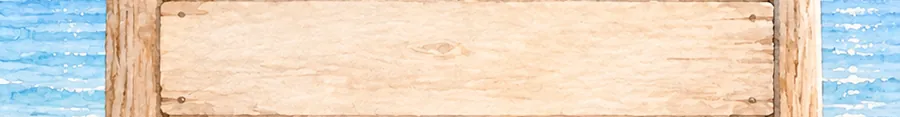
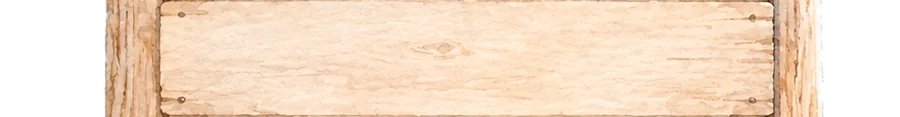
해변 게시판 배경 교체: 넓힌 해변 그림을 배경으로, 게시판은 배경 위에 서 있도록
Claude-Session: https://claude.ai/code/session_01SdUdZHhPjDED97ksZnExm7

Changed region(s): [[0.9022, 0.0, 1.0, 1.0], [0.0, 0.0, 0.1244, 1.0]]

diff --git a/index.html b/index.html
@@ -92,13 +92,10 @@ textarea,input,select{font:inherit;color:inherit}
   padding:7px 12px;border-radius:14px}
 
 /* ---------- board ---------- */
-#board{background:url(img/sea.webp) center/cover fixed;padding-bottom:0}
-#board{position:relative}
-#board::before{content:"";position:fixed;inset:0;background:inherit;filter:blur(3px) brightness(1.05) saturate(.85);transform:scale(1.03);z-index:0}
-.board{position:relative;z-index:1;width:100%;max-width:520px;margin:0 auto;
-  -webkit-mask-image:linear-gradient(90deg,transparent 0,#000 3%,#000 97%,transparent 100%);
-  mask-image:linear-gradient(90deg,transparent 0,#000 3%,#000 97%,transparent 100%);
-  background:url(img/board_mid.webp) 0 0/100% auto repeat-y}
+#board{position:relative;padding-bottom:4vh}
+#board::before{content:"";position:fixed;inset:0;background:#cfe3f3 url(img/beach.webp) center bottom/cover no-repeat;z-index:0}
+.board{position:relative;z-index:1;width:100%;max-width:560px;margin:0 auto}
+.mid-wrap{display:flow-root;background:url(img/board_mid.webp) 0 0/100% auto repeat-y}
 .board-top,.board-bot{display:block;width:100%;height:auto}
 .board-top-wrap{position:relative}
 .board-head{position:absolute;left:19%;right:15.5%;top:46%;text-align:center}
@@ -124,7 +121,7 @@ textarea,input,select{font:inherit;color:inherit}
 .badge{font-size:11px;padding:1px 7px;border-radius:9px;color:#fff;white-space:nowrap}
 .b-done{background:#4b8a5f}.b-plan{background:#2f6f9f}.b-no{background:#9a7b5c}.b-wait{background:#b08a3a}
 .board-foot{position:relative}
-.foot-note{position:absolute;left:14%;right:14%;bottom:5%;text-align:center;font-size:12px;line-height:1.55;color:#5b4528;background:rgba(255,250,238,.82);border-radius:10px;padding:8px 10px}
+.foot-note{position:absolute;left:17%;right:17%;top:44%;text-align:center;font-size:12px;line-height:1.55;color:#5b4528;background:rgba(255,250,238,.82);border-radius:10px;padding:8px 10px}
 
 /* ---------- find ---------- */
 #find{background:url(img/sea.webp) center/cover fixed;padding:80px 16px 40px}
@@ -226,7 +223,7 @@ textarea,input,select{font:inherit;color:inherit}
         <div class="stats" id="stats"></div>
       </div>
     </div>
-    <div class="notes" id="notes"><div class="loading">불러오는 중…</div></div>
+    <div class="mid-wrap"><div class="notes" id="notes"><div class="loading">불러오는 중…</div></div></div>
     <div class="board-foot">
       <img class="board-bot" src="img/board_bot.webp" alt="">
       <div class="foot-note">해변에 닿지 않은 병은 담당자가 보낸 분께 따로 답장합니다.<br>'내 병 찾기'에서 확인하세요.</div>
